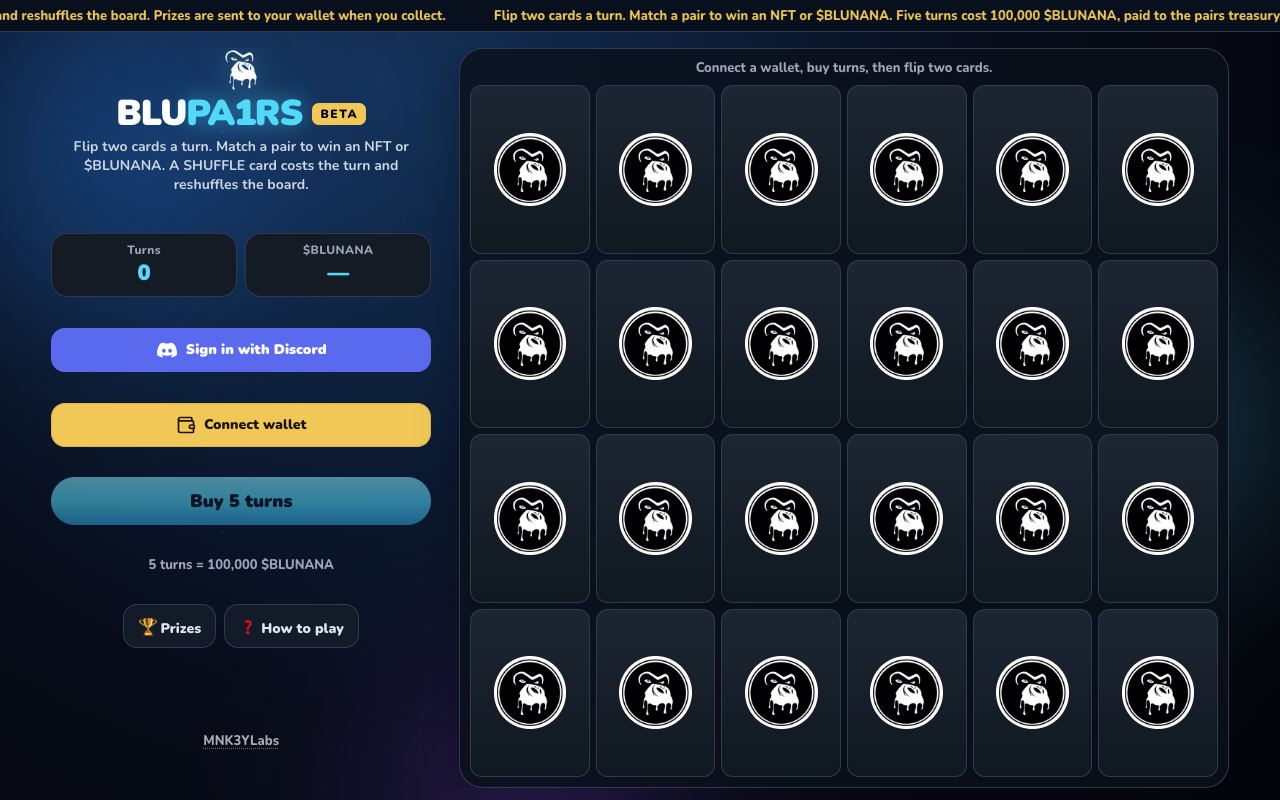
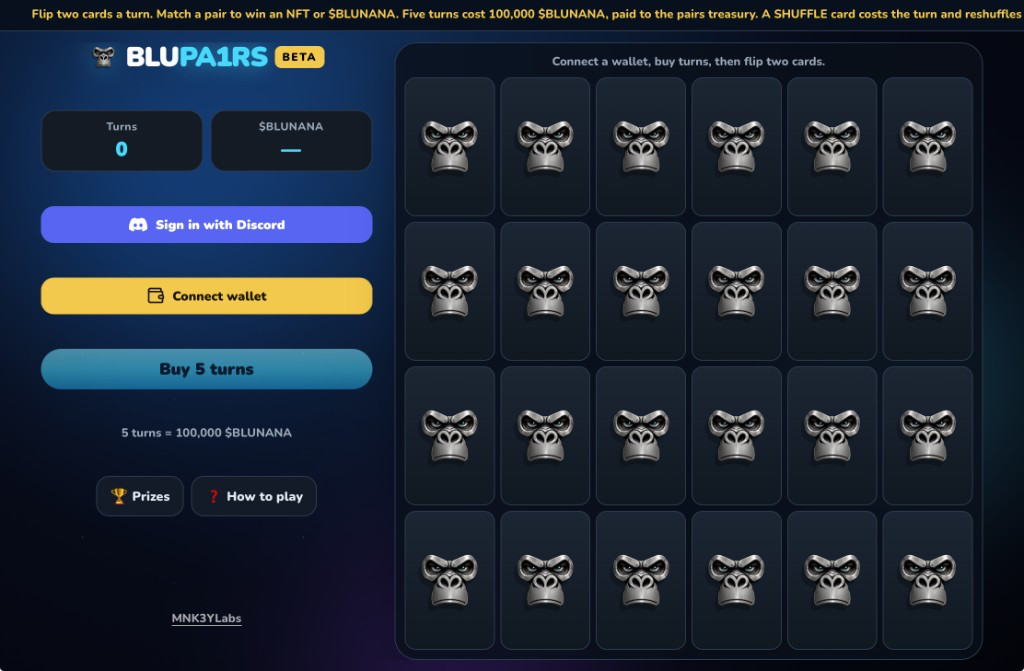
Update preview2: match GAM3S title size, new pairs shot, S3RV1CES page.
Hide juice/juicebags/mnk1sh for now and add services above partners so production preview2 matches the latest content pass.

diff --git a/preview2/index.html b/preview2/index.html
@@ -18,7 +18,7 @@
   <link rel="preconnect" href="https://fonts.googleapis.com" />
   <link rel="preconnect" href="https://fonts.gstatic.com" crossorigin />
   <link href="https://fonts.googleapis.com/css2?family=IBM+Plex+Mono:wght@400;500&family=Nunito:wght@800;900&family=Poppins:wght@600;700;800&display=swap" rel="stylesheet" />
-  <link rel="stylesheet" href="/css/preview2.css?v=66" />
+  <link rel="stylesheet" href="/css/preview2.css?v=68" />
 </head>
 <body class="p2">
   <header class="p2-nav" id="p2-nav">
@@ -36,10 +36,8 @@
       <a href="#games" data-section="games">GAM3S</a>
       <a href="#lp" data-section="lp">LP</a>
       <a href="#utility" data-section="utility">Utility</a>
-      <a href="#juice" data-section="juice">$JUICE</a>
-      <a href="#juicebags" data-section="juicebags">Juicebags</a>
       <a href="#b3bs" data-section="b3bs">B3BS</a>
-      <a href="#mnk1sh" data-section="mnk1sh">MNK1SH</a>
+      <a href="#services" data-section="services">S3RV1CES</a>
       <a href="#partners" data-section="partners">Partners</a>
     </nav>
   </header>
@@ -163,7 +161,7 @@
             </div>
           </article>
           <article class="p2-game p2-game--flip">
-            <img class="p2-game__shot" src="/assets/preview2/games/pairs.png" alt="BLUPA1RS preview" width="1280" height="800" loading="lazy" />
+            <img class="p2-game__shot" src="/assets/preview2/games/pairs.png?v=2" alt="BLUPA1RS preview" width="1280" height="800" loading="lazy" />
             <div class="p2-game__copy">
               <h3 class="p2-game__word"><span class="p2-game__mark">BLU<b>PA1RS</b></span><em class="p2-game__beta">BETA</em></h3>
               <p class="p2-desc">Flip two cards a turn. Match a pair to win an NFT or $BLUNANA. Five turns cost 100,000 $BLUNANA.</p>
@@ -201,7 +199,7 @@
       </div>
     </section>
 
-    <section class="p2-page p2-page--juice p2-page--art-left" id="juice">
+    <section class="p2-page p2-page--juice p2-page--art-left" id="juice" hidden>
       <div class="p2-page__content p2-center">
         <p class="p2-kicker">MNK3Y<span class="g">LABS</span> X <span class="g">LUNAR</span>VERSE</p>
         <p class="p2-desc p2-desc--narrow">A dual community token strengthening the bond between the MNK3YLAB and the Lunarverse. Double the community, double the power</p>
@@ -216,7 +214,7 @@
       </div>
     </section>
 
-    <section class="p2-page p2-page--juicebags p2-page--art-right" id="juicebags">
+    <section class="p2-page p2-page--juicebags p2-page--art-right" id="juicebags" hidden>
       <div class="p2-page__content p2-center">
         <p class="p2-kicker">MNK3Y<span class="g">LABS</span> X <span class="g">LUNAR</span>VERSE</p>
         <p class="p2-desc p2-desc--narrow">A new earning mechanism. Fill your Juicebags with $JUICE to earn the maximum $JUICE staking rewards</p>
@@ -241,7 +239,7 @@
       </div>
     </section>
 
-    <section class="p2-page p2-page--mnk1sh p2-page--art-right" id="mnk1sh">
+    <section class="p2-page p2-page--mnk1sh p2-page--art-right" id="mnk1sh" hidden>
       <div class="p2-page__content p2-center">
         <p class="p2-desc p2-desc--narrow">The next evolution of the MNK3YS IP. High resolution 3D collectables bringing new community members to the tribe.</p>
         <h2 class="p2-title" style="--chars:6">MNK<span class="g">1</span>SH</h2>
@@ -249,6 +247,43 @@
         <div class="p2-pills">
           <a class="p2-pill" href="#" data-todo>Mint</a>
           <a class="p2-pill" href="#" data-todo>Orbis</a>
+        </div>
+      </div>
+    </section>
+
+    <section class="p2-page p2-page--services" id="services">
+      <div class="p2-page__content p2-services">
+        <h2 class="p2-title p2-services__title" style="--chars:8">S<span class="g">3</span>RV1CES</h2>
+        <p class="p2-sub">Build, launch and grow with the MNK3YLAB</p>
+        <div class="p2-service-grid" aria-label="Services">
+          <article class="p2-service">
+            <span class="p2-service__icon" aria-hidden="true">
+              <svg viewBox="0 0 24 24" fill="none" stroke="currentColor" stroke-width="1.8" stroke-linecap="round" stroke-linejoin="round"><path d="M17 21v-2a4 4 0 0 0-4-4H5a4 4 0 0 0-4 4v2"/><circle cx="9" cy="7" r="4"/><path d="M23 21v-2a4 4 0 0 0-3-3.87"/><path d="M16 3.13a4 4 0 0 1 0 7.75"/></svg>
+            </span>
+            <h3 class="p2-service__name">Project Consultants</h3>
+            <p class="p2-service__desc">Navigate the Web3 landscape with confidence. Our experienced consultants provide strategic guidance, technical expertise, and industry insights to transform your vision into a successful project. From concept to launch, we're with you every step of the way.</p>
+          </article>
+          <article class="p2-service">
+            <span class="p2-service__icon" aria-hidden="true">
+              <svg viewBox="0 0 24 24" fill="none" stroke="currentColor" stroke-width="1.8" stroke-linecap="round" stroke-linejoin="round"><path d="M12 22a8 8 0 0 1-8-8c0-3.5 2.5-6.4 4.5-8.5C10 4 11 3 12 2c1 1 2 2 3.5 3.5C17.5 7.6 20 10.5 20 14a8 8 0 0 1-8 8z"/><circle cx="9.5" cy="13.5" r="1"/><circle cx="12.5" cy="11" r="1"/><circle cx="15" cy="14.5" r="1"/></svg>
+            </span>
+            <h3 class="p2-service__name">Art Services</h3>
+            <p class="p2-service__desc">Elevate your NFT collection with stunning, unique artwork that captivates and converts. Our talented artists specialize in creating cohesive collections that tell a story, resonate with communities, and stand out in the competitive NFT marketplace.</p>
+          </article>
+          <article class="p2-service">
+            <span class="p2-service__icon" aria-hidden="true">
+              <svg viewBox="0 0 24 24" fill="none" stroke="currentColor" stroke-width="1.8" stroke-linecap="round" stroke-linejoin="round"><path d="M4.5 16.5c-1.5 1.26-2 5-2 5s3.74-.5 5-2c.71-.84.7-2.13-.09-2.91a2.18 2.18 0 0 0-2.91-.09z"/><path d="m12 15-3-3a22 22 0 0 1 2-3.95A12.88 12.88 0 0 1 22 2c0 2.72-.78 7.5-6 11a22.35 22.35 0 0 1-4 2z"/><path d="M9 12H4s.55-3.03 2-4c1.62-1.08 5 0 5 0"/><path d="M12 15v5s3.03-.55 4-2c1.08-1.62 0-5 0-5"/></svg>
+            </span>
+            <h3 class="p2-service__name">Launchpad</h3>
+            <p class="p2-service__desc">Launch your NFT project with our battle-tested infrastructure. Our launchpad provides secure minting, efficient distribution, and seamless user experience on Solana. We handle the technical complexities so you can focus on building your community.</p>
+          </article>
+          <article class="p2-service">
+            <span class="p2-service__icon" aria-hidden="true">
+              <svg viewBox="0 0 24 24" fill="none" stroke="currentColor" stroke-width="1.8" stroke-linecap="round" stroke-linejoin="round"><circle cx="12" cy="12" r="2"/><path d="M16.24 7.76a6 6 0 0 1 0 8.49"/><path d="M7.76 16.24a6 6 0 0 1 0-8.49"/><path d="M19.07 4.93a10 10 0 0 1 0 14.14"/><path d="M4.93 19.07a10 10 0 0 1 0-14.14"/></svg>
+            </span>
+            <h3 class="p2-service__name">Jungle Juice X-Spaces</h3>
+            <p class="p2-service__desc">Amplify your project's reach with our premium Twitter Spaces hosting and community engagement services. We bring together Web3 enthusiasts, collectors, and builders to create meaningful conversations that drive awareness and growth for your project.</p>
+          </article>
         </div>
       </div>
     </section>
@@ -426,7 +461,7 @@
 
   <div class="p2-toast" id="p2-toast" role="status" aria-live="polite"></div>
 
-  <script src="/js/preview2-nav.js?v=6"></script>
+  <script src="/js/preview2-nav.js?v=7"></script>
   <script src="/js/preview2-tools.js?v=7"></script>
   <script src="/js/preview2-portal.js?v=8"></script>
 </body>

diff --git a/css/preview2.css b/css/preview2.css
@@ -114,6 +114,8 @@ body.p2 {
   overflow: hidden;
 }
 
+.p2-page[hidden] { display: none !important; }
+
 /* Hero gorilla lives on a pseudo-element so it can pulse behind the title */
 .p2-page--home::before {
   content: '';
@@ -139,6 +141,7 @@ body.p2 {
 .p2-page--juicebags { background-image: url('/assets/preview2/juicebags-landscape.jpg?v=2'); }
 .p2-page--b3bs      { background-image: url('/assets/preview2/b3bs-landscape.jpg?v=2'); }
 .p2-page--mnk1sh    { background-image: url('/assets/preview2/mnk1sh-landscape.jpg?v=2'); }
+.p2-page--services  { background-image: none; }
 .p2-page--partners  { background-image: none; }
 
 .p2-page__content {
@@ -359,10 +362,6 @@ body.p2 {
   gap: 0.35em;
 }
 
-.p2-games > .p2-games__title {
-  font-size: max(1.9rem, calc(4.6 * var(--u)));
-}
-
 .p2-games > .p2-sub {
   margin: 0.15em 0 0;
 }
@@ -496,6 +495,95 @@ body.p2 {
 }
 
 .p2-game__copy .p2-pill { margin-top: 0.15em; }
+
+/* ——— S3RV1CES: 2x2 offering grid (one viewport) ——— */
+.p2-page--services {
+  justify-content: center;
+  align-items: center;
+  overflow: hidden;
+  height: 100vh;
+  height: 100svh;
+  min-height: 100vh;
+  min-height: 100svh;
+  padding-top: calc(var(--p2-nav-h) + 8px);
+  padding-bottom: 16px;
+}
+
+.p2-services {
+  display: flex;
+  flex-direction: column;
+  align-items: center;
+  justify-content: center;
+  width: min(960px, 100%);
+  max-height: calc(100svh - var(--p2-nav-h) - 24px);
+  text-align: center;
+  gap: 0.35em;
+}
+
+.p2-services > .p2-sub {
+  margin: 0.15em 0 0;
+}
+
+.p2-service-grid {
+  display: grid;
+  grid-template-columns: repeat(2, minmax(0, 1fr));
+  gap: max(0.75em, 1.4vh) max(1em, 1.6vw);
+  width: 100%;
+  margin-top: 0.7em;
+  min-height: 0;
+  flex: 1 1 auto;
+  align-content: center;
+}
+
+.p2-service {
+  display: flex;
+  flex-direction: column;
+  align-items: flex-start;
+  gap: 0.45em;
+  padding: max(0.9em, 1.4vh) max(1em, 1.2vw);
+  text-align: left;
+  border: 2px solid rgba(34, 245, 58, 0.28);
+  border-radius: 14px;
+  background: rgba(5, 7, 13, 0.72);
+  box-shadow: 0 12px 28px rgba(0, 0, 0, 0.35);
+}
+
+.p2-service__icon {
+  display: grid;
+  place-items: center;
+  width: max(2.4rem, calc(3.2 * var(--u)));
+  height: max(2.4rem, calc(3.2 * var(--u)));
+  border: 1.5px solid rgba(34, 245, 58, 0.45);
+  border-radius: 10px;
+  color: var(--p2-green);
+  background: rgba(34, 245, 58, 0.08);
+}
+
+.p2-service__icon svg {
+  width: 58%;
+  height: 58%;
+}
+
+.p2-service__name {
+  margin: 0;
+  font-family: var(--p2-display);
+  font-weight: 800;
+  font-size: max(0.95rem, calc(1.55 * var(--u)));
+  line-height: 1.1;
+  letter-spacing: -0.01em;
+  color: var(--p2-white);
+  text-transform: uppercase;
+}
+
+.p2-service__desc {
+  margin: 0;
+  font-family: var(--p2-mono);
+  font-size: max(0.62rem, calc(0.95 * var(--u)));
+  line-height: 1.35;
+  color: var(--p2-grey);
+  text-transform: none;
+  text-shadow: 0 1px 8px rgba(0, 0, 0, 0.7);
+}
 
 /* ——— Buttons ——— */
 .p2-socials {
@@ -1459,6 +1547,7 @@ body.p2 {
   .p2-page--juicebags { background-image: url('/assets/preview2/juicebags-portrait.jpg'); }
   .p2-page--b3bs      { background-image: url('/assets/preview2/b3bs-portrait.jpg'); }
   .p2-page--mnk1sh    { background-image: url('/assets/preview2/mnk1sh-portrait.jpg'); }
+  .p2-page--services  { background-image: none; }
   .p2-page--partners  { background-image: none; }
 
   .p2-page--home      { background-image: none; }
@@ -1533,15 +1622,32 @@ body.p2 {
     margin-top: 0.9em;
   }
 
-  .p2-page--games {
+  .p2-page--games,
+  .p2-page--services {
     height: auto;
     min-height: 100svh;
     overflow: visible;
     justify-content: flex-start;
   }
 
-  .p2-games {
+  .p2-games,
+  .p2-services {
     max-height: none;
+  }
+
+  .p2-service-grid {
+    grid-template-columns: 1fr;
+    gap: 0.85em;
+  }
+
+  .p2-service {
+    align-items: center;
+    text-align: center;
+  }
+
+  .p2-service__desc {
+    font-size: clamp(0.75rem, 3.2vw, 0.95rem);
+    max-width: 42ch;
   }
 
   .p2-game,

diff --git a/js/preview2-nav.js b/js/preview2-nav.js
@@ -7,7 +7,7 @@
   var nav = document.getElementById('p2-nav');
   var toggle = document.getElementById('p2-nav-toggle');
   var links = Array.prototype.slice.call(document.querySelectorAll('.p2-nav__links a'));
-  var pages = Array.prototype.slice.call(document.querySelectorAll('.p2-page'));
+  var pages = Array.prototype.slice.call(document.querySelectorAll('.p2-page:not([hidden])'));
   var toast = document.getElementById('p2-toast');
   var toastTimer;
 
